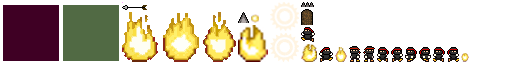
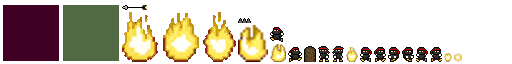
Pre-branch changes

Changed region(s): [[0.4688, 0.0312, 0.9375, 0.9688]]

diff --git a/core/src/com/dantech/escape/MenuScreen.java b/core/src/com/dantech/escape/MenuScreen.java
@@ -1,19 +1,27 @@
 package com.dantech.escape;
 
+import com.badlogic.gdx.Game;
 import com.badlogic.gdx.Gdx;
+import com.badlogic.gdx.Input;
 import com.badlogic.gdx.ScreenAdapter;
 import com.badlogic.gdx.graphics.GL20;
 import com.badlogic.gdx.graphics.Texture;
 import com.badlogic.gdx.graphics.g2d.SpriteBatch;
 import com.badlogic.gdx.graphics.glutils.ShapeRenderer;
+import com.badlogic.gdx.scenes.scene2d.ui.TextButton;
 import com.badlogic.gdx.utils.TimeUtils;
+import com.dantech.escape.utilities.Assets;
 import com.dantech.escape.utilities.Constants;
+import com.dantech.escape.utilities.DrawingUtil;
 
 public class MenuScreen extends ScreenAdapter {
     Texture menuBackground;
     Texture logo;
+    Texture playBtn;
+    Texture settingsBtn;
+    Texture questionBtn;
+    Texture bgNinja;
     SpriteBatch sb;
-    ShapeRenderer renderer;
     float logoWidth;
     float logoHeight;
 
@@ -21,10 +29,15 @@ public class MenuScreen extends ScreenAdapter {
     public void show(){
         menuBackground = new Texture(Constants.MENU_BG + ".png");
         logo = new Texture(Constants.LOGO + ".png");
+        playBtn = new Texture(Constants.MENU_PLAY_BTN + ".png");
+        settingsBtn = new Texture(Constants.MENU_SETTINGS_BTN +".png");
+        questionBtn = new Texture(Constants.MENU_QUESTION_BTN +".png");
+//        bgNinja = new Texture(Constants.STANDING_RIGHT + ".png");
         sb = new SpriteBatch();
-        renderer = new ShapeRenderer();
-        logoWidth = Gdx.graphics.getWidth()/2;
+        logoWidth = Gdx.graphics.getWidth()/4*3;
         logoHeight = (logoWidth/logo.getWidth())*logo.getHeight();
+
+
     }
 
     @Override
@@ -34,18 +47,29 @@ public class MenuScreen extends ScreenAdapter {
         Gdx.gl.glClear(GL20.GL_COLOR_BUFFER_BIT);
         sb.begin();
         sb.draw(menuBackground,0,0,Gdx.graphics.getWidth()*1.2f,Gdx.graphics.getHeight()*1.2f);
-        sb.draw(logo,Gdx.graphics.getWidth()/2 - logoWidth/2,Gdx.graphics.getHeight()/2,logoWidth,logoHeight);
+
+//        sb.draw(bgNinja,0,-Gdx.graphics.getWidth()/3,Gdx.graphics.getWidth()/2,1.33333f*Gdx.graphics.getWidth()/2);
+
+        sb.draw(logo,(Gdx.graphics.getWidth() - logoWidth)/2,Gdx.graphics.getHeight()/2,logoWidth,logoHeight);
+
+
+        sb.draw(playBtn, Gdx.graphics.getWidth()/4f,Gdx.graphics.getHeight()/4f, Gdx.graphics.getHeight()/6,Gdx.graphics.getHeight()/6);
+        sb.draw(settingsBtn, Gdx.graphics.getWidth()/2f- Gdx.graphics.getHeight()/12,Gdx.graphics.getHeight()/4f, Gdx.graphics.getHeight()/6,Gdx.graphics.getHeight()/6);
+        sb.draw(questionBtn, Gdx.graphics.getWidth()/4f*3 - Gdx.graphics.getHeight()/6,Gdx.graphics.getHeight()/4f, Gdx.graphics.getHeight()/6,Gdx.graphics.getHeight()/6);
         sb.end();
+        if(Gdx.input.isKeyPressed(Input.Keys.SPACE)){
+            ((Game)Gdx.app.getApplicationListener()).setScreen(new PlayScreen());
+        }
     }
 
     public void pulsateLogo(){
         if(TimeUtils.nanosToMillis(TimeUtils.nanoTime())%3000>1500){
-            logoWidth *= 1.0001;
-            logoHeight *=1.0001;
+            logoWidth *= 1.0003;
+            logoHeight *=1.0003;
         } else {
             Gdx.app.log("","");
-            logoHeight *= 0.9999f;
-            logoWidth *= 0.9999f;
+            logoHeight *= 0.9997f;
+            logoWidth *= 0.9997f;
         }
     }
 
@@ -53,7 +77,6 @@ public class MenuScreen extends ScreenAdapter {
     public void dispose(){
         sb.dispose();
         menuBackground.dispose();
-        renderer.dispose();
         logo.dispose();
     }
 }

diff --git a/core/src/com/dantech/escape/Level.java b/core/src/com/dantech/escape/Level.java
@@ -4,6 +4,7 @@ import com.badlogic.gdx.Gdx;
 import com.badlogic.gdx.graphics.g2d.SpriteBatch;
 import com.badlogic.gdx.math.Vector2;
 import com.badlogic.gdx.utils.Array;
+import com.dantech.escape.entities.Door;
 import com.dantech.escape.entities.Fire;
 import com.dantech.escape.entities.HollowPlatform;
 import com.dantech.escape.entities.Platform;
@@ -18,12 +19,12 @@ public class Level {
     Array<HollowPlatform> hollowPlatforms;
     Array<SolidPlatform> solidPlatforms;
     Array<Hazard> hazards;
+    Door door;
 
     public Level(){
         hollowPlatforms = new Array<HollowPlatform>();
         solidPlatforms = new Array<SolidPlatform>();
         hazards = new Array<Hazard>();
-
         initTestLevel();
 
     }
@@ -31,7 +32,7 @@ public class Level {
     public void update(float delta){
 
         for (Hazard hazard: hazards){
-            if(hazard.animated == false){
+            if(hazard.animated == true){
                 hazard.update(delta);
             }
         }
@@ -50,20 +51,21 @@ public class Level {
             hazard.render(sb);
         }
 
+        door.render(sb);
+
         player.render(sb);
         sb.end();
     }
 
     void initTestLevel(){
+        door = new Door(new Vector2(500,0));
         hollowPlatforms.add(new HollowPlatform(-50, 30, 71, 10, false));
         hollowPlatforms.add(new HollowPlatform(-100, 60, 71, 10, false));
         hollowPlatforms.add(new HollowPlatform(-50, 90, 71, 10, false));
         hollowPlatforms.add(new HollowPlatform(-100, 120, 71, 10, false));
         hollowPlatforms.add(new HollowPlatform(-50, 150, 71, 10, false));
-        hollowPlatforms.add(new HollowPlatform(-100, 180, 71, 10, false));
 
         hollowPlatforms.add(new HollowPlatform(130, 30, 71, 10, false));
-
 
         solidPlatforms.add(new SolidPlatform(-270, 0, 800, 40,false));
         solidPlatforms.add(new SolidPlatform(-200, 300, 40, 400, false));

diff --git a/core/src/com/dantech/escape/utilities/DrawingUtil.java b/core/src/com/dantech/escape/utilities/DrawingUtil.java
@@ -5,8 +5,8 @@ import com.badlogic.gdx.graphics.g2d.TextureRegion;
 
 public class DrawingUtil {
 
-    public static void drawTextureRegion(SpriteBatch batch, TextureRegion region, float x, float y) {
-        batch.draw(
+    public static void drawTextureRegion(SpriteBatch sb, TextureRegion region, float x, float y) {
+        sb.draw(
                 region.getTexture(),
                 x,
                 y,
@@ -14,6 +14,26 @@ public class DrawingUtil {
                 0,
                 region.getRegionWidth(),
                 region.getRegionHeight(),
+                1,
+                1,
+                0,
+                region.getRegionX(),
+                region.getRegionY(),
+                region.getRegionWidth(),
+                region.getRegionHeight(),
+                false,
+                false);
+    }
+
+    public static void drawTextureRegion(SpriteBatch sb, TextureRegion region, float x, float y, float scaleFactor) {
+        sb.draw(
+                region.getTexture(),
+                x,
+                y,
+                0,
+                0,
+                region.getRegionWidth()*scaleFactor,
+                region.getRegionHeight()*scaleFactor,
                 1,
                 1,
                 0,

diff --git a/core/src/com/dantech/escape/utilities/Constants.java b/core/src/com/dantech/escape/utilities/Constants.java
@@ -17,6 +17,12 @@ public class Constants {
 
     public static final String MENU_BG = "menubg";
     public static final String LOGO = "logo";
+    public static final String MENU_PLAY_BTN = "playbtn";
+    public static final String MENU_SETTINGS_BTN = "settingsbtn";
+    public static final String MENU_QUESTION_BTN = "questionbtn";
+
+
+
     public static final String STANDING_RIGHT = "standing-right";
     public static final String STANDING_LEFT = "standing-left";
     public static final String JUMPING_RIGHT = "jumping-right";
@@ -30,8 +36,8 @@ public class Constants {
     public static final String PLATFORM_SPRITE_1 = "platform";
     public static final String PLATFORM_SPRITE_2 = "platform2";
     public static final String SPIKE = "spike";
-    public static final String ENEMY1 = "enemy";
-    public static final String ENEMY2 = "enemy-2";
+    public static final String DOOR ="door" ;
+
     public static final String FIRE_1 = "fire1";
     public static final String FIRE_2 = "fire2";
     public static final String FIRE_3 = "fire3";

diff --git a/core/src/com/dantech/escape/entities/Door.java b/core/src/com/dantech/escape/entities/Door.java
@@ -1,0 +1,30 @@
+package com.dantech.escape.entities;
+
+import com.badlogic.gdx.graphics.g2d.SpriteBatch;
+import com.badlogic.gdx.graphics.g2d.TextureRegion;
+import com.badlogic.gdx.math.Vector2;
+import com.dantech.escape.utilities.Assets;
+import com.dantech.escape.utilities.DrawingUtil;
+
+public class Door {
+    Vector2 position;
+    float top;
+    float bottom;
+    float left;
+    float right;
+    float width = left-right;
+    float height = top-bottom;
+    TextureRegion region = Assets.instance.escapeAssets.door;
+
+    public Door(Vector2 position){
+        this.position = position;
+        this.left = position.x;
+        this.right = position.x + region.getRegionWidth()-1;
+        this.bottom = position.y;
+        this.top = position.y + region.getRegionHeight()-1;
+    }
+
+    public void render(SpriteBatch sb){
+        DrawingUtil.drawTextureRegion(sb,region,position.x, position.y);
+    }
+}

diff --git a/core/src/com/dantech/escape/utilities/Assets.java b/core/src/com/dantech/escape/utilities/Assets.java
@@ -65,6 +65,8 @@ public class Assets implements Disposable, AssetErrorListener {
         public final Animation walkingLeftAnimation;
         public final Animation walkingRightAnimation;
 
+        public final AtlasRegion door;
+
         public final AtlasRegion pixel;
 
 
@@ -76,6 +78,8 @@ public class Assets implements Disposable, AssetErrorListener {
             jumpingLeft = atlas.findRegion(Constants.JUMPING_LEFT);
             walkingRight = atlas.findRegion(Constants.WALKING_RIGHT_2);
             walkingLeft = atlas.findRegion(Constants.WALKING_LEFT_2);
+
+            door = atlas.findRegion(Constants.DOOR);
             pixel = atlas.findRegion("pixel");
 
             Array<AtlasRegion> walkingLeftSprites = new Array<AtlasRegion>();

diff --git a/core/src/com/dantech/escape/entities/Player.java b/core/src/com/dantech/escape/entities/Player.java
@@ -250,7 +250,7 @@ public class Player {
         }
 
         DrawingUtil.drawTextureRegion(sb, region, position.x,position.y);
-        DrawingUtil.drawTextureRegion(sb,Assets.instance.escapeAssets.pixel, position.x,position.y);
+//        DrawingUtil.drawTextureRegion(sb,Assets.instance.escapeAssets.pixel, position.x,position.y);
     }
 
     enum PlayerFacing {

diff --git a/core/src/com/dantech/escape/utilities/LevelGenerator.java b/core/src/com/dantech/escape/utilities/LevelGenerator.java
@@ -1,0 +1,9 @@
+package com.dantech.escape.utilities;
+
+import com.badlogic.gdx.utils.viewport.Viewport;
+import com.dantech.escape.Level;
+
+public class LevelGenerator {
+
+// to do
+}
